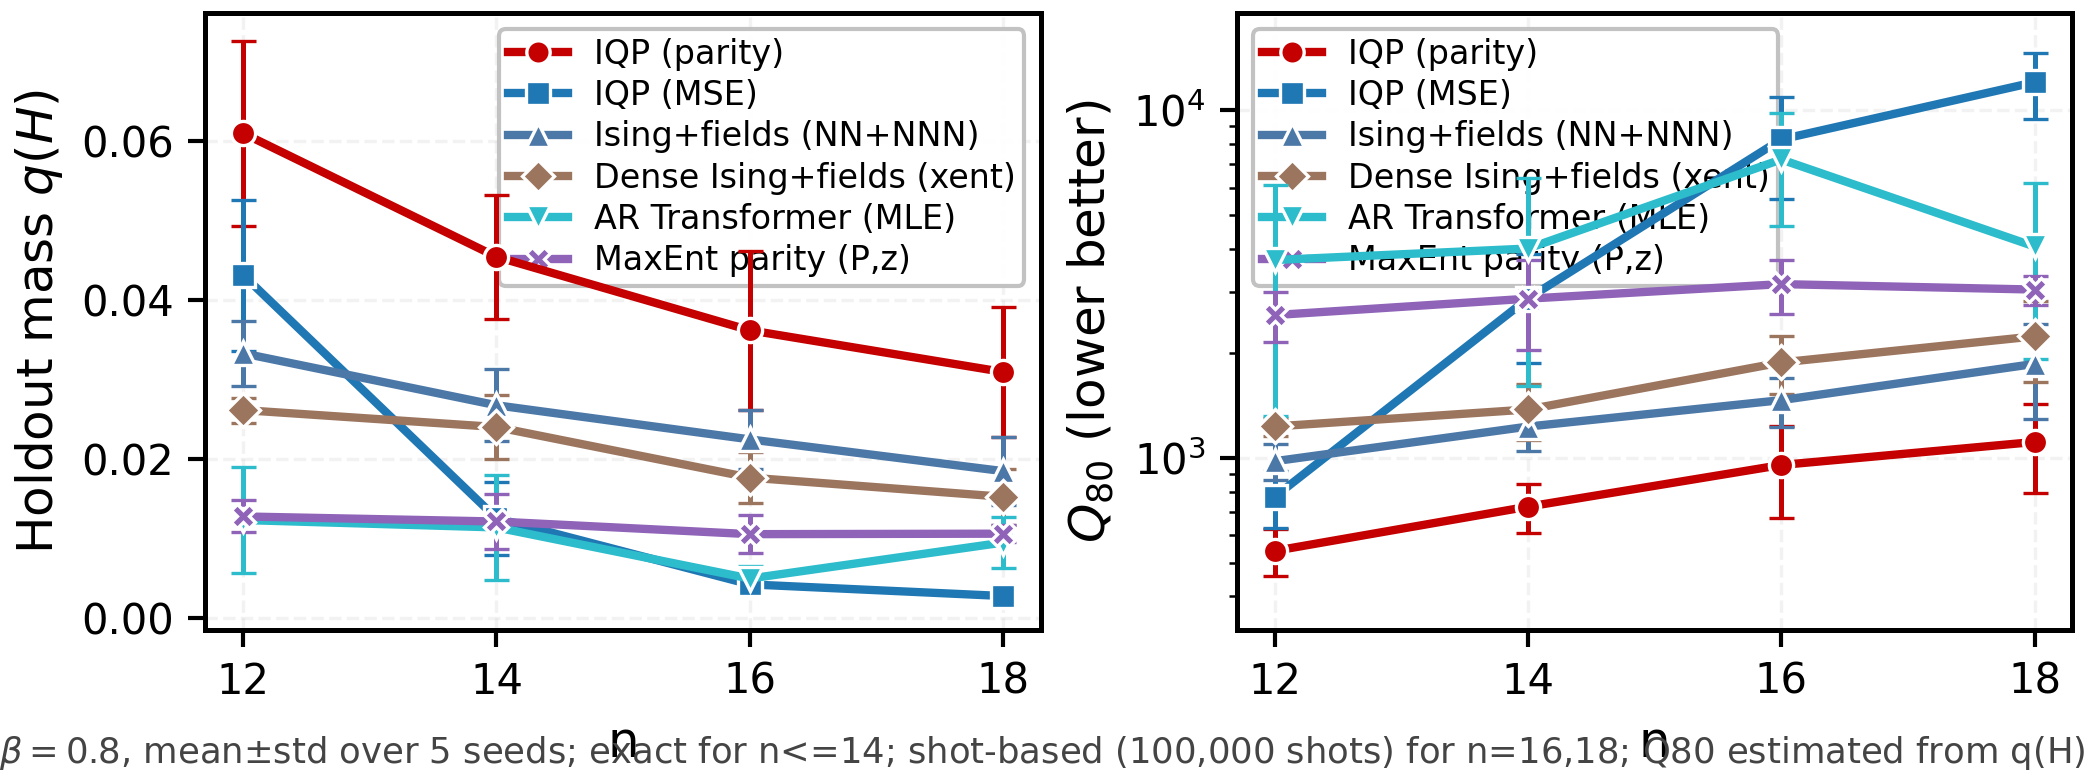
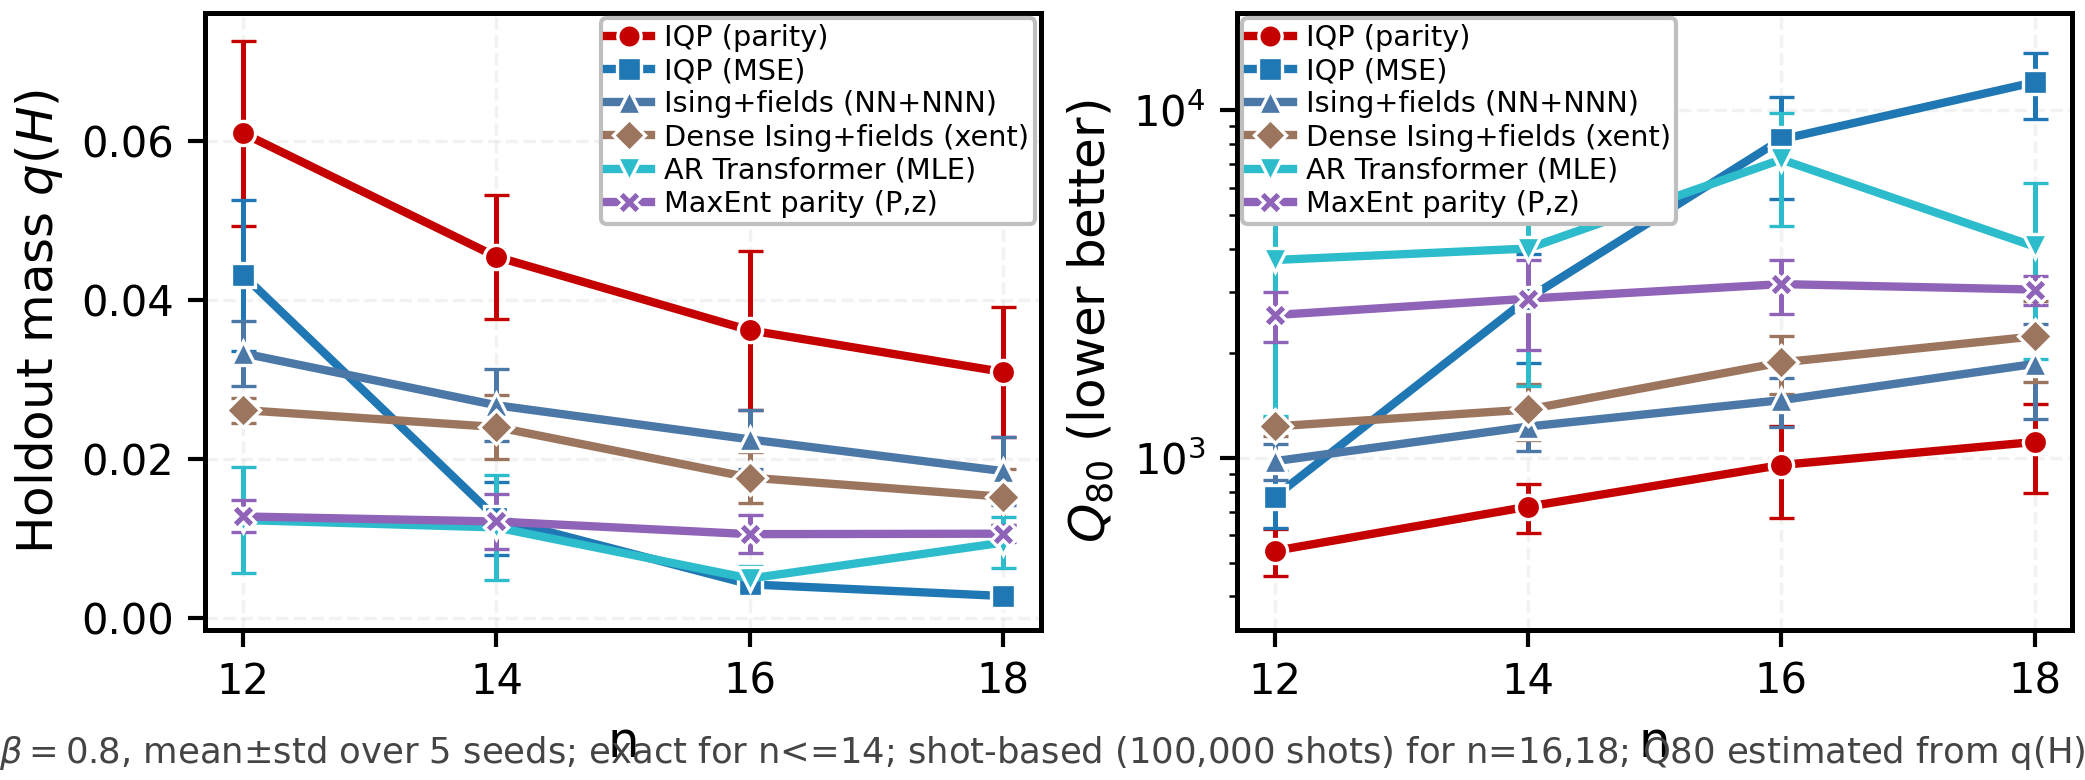
Finalize Fig7 legend overlay placement and rerender artifacts

Changed region(s): [[0.2182, 0.0, 0.4988, 0.3692], [0.5923, 0.0, 0.8729, 0.3692]]

diff --git a/experiments/final_scripts/plot_appendix_ablation_beta0p8_nsweep.py b/experiments/final_scripts/plot_appendix_ablation_beta0p8_nsweep.py
@@ -156,18 +156,30 @@ def _legend_handles(model_keys: list[str]) -> list[Line2D]:
     return handles
 
 
-def _add_legend(ax: plt.Axes, model_keys: list[str], loc: str = "upper right") -> None:
-    ax.legend(
+def _add_legend(
+    ax: plt.Axes,
+    model_keys: list[str],
+    loc: str = "upper right",
+    bbox_to_anchor: tuple[float, float] | None = None,
+    framealpha: float = 1.0,
+) -> None:
+    leg = ax.legend(
         handles=_legend_handles(model_keys),
         loc=loc,
+        bbox_to_anchor=bbox_to_anchor,
         frameon=True,
-        fontsize=8.0,
+        fontsize=6.9,
         facecolor="white",
         edgecolor="#bfbfbf",
-        borderpad=0.25,
-        labelspacing=0.25,
-        handlelength=1.8,
+        framealpha=framealpha,
+        borderpad=0.20,
+        labelspacing=0.18,
+        handlelength=1.55,
+        handletextpad=0.45,
+        borderaxespad=0.20,
     )
+    # Force legend above all plotted curves so it visibly overlays them.
+    leg.set_zorder(100)
 
 
 def _q80_from_qh_values(qh: np.ndarray, holdout_size: int, thr: float) -> np.ndarray:
@@ -401,7 +413,7 @@ def run() -> None:
     right_std = r_q10000_std
     right_ylabel = r"Recovery $R(10000)$"
     right_is_log = False
-    right_legend_loc = "lower left"
+    right_legend_loc = "upper left"
     if str(args.right_metric).lower() == "q80_from_qh":
         right_seed = _q80_from_qh_values(q_holdout_seed, holdout_size=holdout_size, thr=float(args.q80_thr))
         right_mean, right_std = _reduce_seed_stats(right_seed)
@@ -487,7 +499,7 @@ def run() -> None:
         seed_values=seed_values,
         seed_data=q_holdout_seed,
     )
-    _add_legend(ax_q, model_keys)
+    _add_legend(ax_q, model_keys, loc="upper right")
     out_q_pdf = outdir / "fig7_appendix_ablation_beta0p8_nsweep_qholdout_vs_n.pdf"
     out_q_png = outdir / "fig7_appendix_ablation_beta0p8_nsweep_qholdout_vs_n.png"
     fig_q.savefig(out_q_pdf)
@@ -515,7 +527,13 @@ def run() -> None:
             ax_r2.set_ylim(y_lo, y_hi)
     else:
         ax_r2.set_ylim(0.0, 1.02)
-    _add_legend(ax_r2, model_keys, loc=right_legend_loc)
+    _add_legend(
+        ax_r2,
+        model_keys,
+        loc="upper left",
+        bbox_to_anchor=None,
+        framealpha=0.95,
+    )
     out_r_pdf = outdir / "fig7_appendix_ablation_beta0p8_nsweep_rq10000_vs_n.pdf"
     out_r_png = outdir / "fig7_appendix_ablation_beta0p8_nsweep_rq10000_vs_n.png"
     fig_r.savefig(out_r_pdf)
